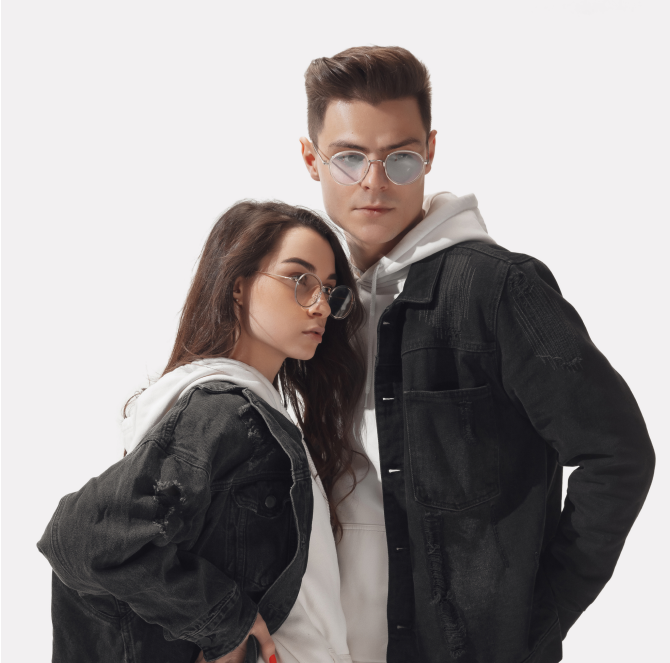
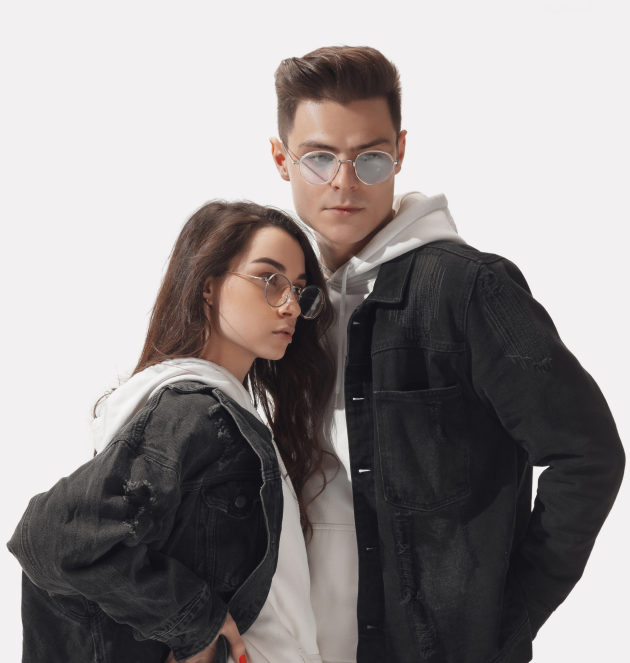
✨ feat: add hero section in home page

diff --git a/src/components/homePage/HeroSection.tsx b/src/components/homePage/HeroSection.tsx
@@ -1,8 +1,41 @@
+import bannerImg from "../../../public/img/banner/hero.png";
+// COMPONENT
+import Image from "next/image";
+import { Section, Button } from "@/components";
 
 const HeroSection = () => {
-  return (
-    <div>HeroSection</div>
-  )
-}
+   return (
+      <Section parentClass="bg-grey-50" sectionClass="flex">
+         {/* LEFT */}
+         <div className="mt-9 flex w-1/2 flex-col items-start gap-6">
+            <h2 className="font-integralCF text-7xl">FIND CLOTHES THAT MATCHES YOUR STYLE</h2>
+            <p className="w-11/12">
+               Browse through our diverse range of meticulously crafted garments, designed to bring out your individuality and cater to your sense of style.
+            </p>
+            <Button bgColor="dark">Shop New</Button>
 
-export default HeroSection
+            <div className="mt-9 flex *:flex *:flex-col *:gap-1 *:px-5">
+               <div>
+                  <span className="text-4xl font-bold">200+</span>
+                  <span>International Brands</span>
+               </div>
+               <div className="border-x">
+                  <span className="text-4xl font-bold">2,000+</span>
+                  <span>High-Quality Products</span>
+               </div>
+               <div>
+                  <span className="text-4xl font-bold">30,000+</span>
+                  <span>Happy Customers</span>
+               </div>
+            </div>
+         </div>
+
+         {/* RIGHT */}
+         <div className="flex w-1/2 justify-end">
+            <Image src={bannerImg} alt="Banner" width={700} height={600} quality={100} className="aspect-square" />
+         </div>
+      </Section>
+   );
+};
+
+export default HeroSection;

diff --git a/src/components/subComponent/Button.tsx b/src/components/subComponent/Button.tsx
@@ -1,0 +1,29 @@
+import { FC } from "react";
+
+type PropsType = {
+   children: React.ReactNode;
+   className?: string;
+   widthFull?: boolean;
+   borderColor?: string;
+   bgColor?: "dark" | "white" | "grey";
+   type?: "button" | "submit" | "reset";
+};
+
+const Button: FC<PropsType> = ({ children, type = "button", className, bgColor = "grey", widthFull, borderColor }): JSX.Element => {
+   return (
+      <button
+         type={type}
+         className={`${className} 
+            ${widthFull && "w-full"} 
+            ${bgColor === "dark" && "bg-dark text-light"} 
+            ${bgColor === "white" && "bg-light text-dark"} 
+            ${bgColor === "grey" && "bg-grey-50 text-dark"} 
+            ${borderColor && `border ${borderColor}`} 
+            rounded-full px-16 py-4 text-lg font-medium`}
+      >
+         {children}
+      </button>
+   );
+};
+
+export default Button;

diff --git a/src/components/index.ts b/src/components/index.ts
@@ -1,8 +1,11 @@
 //------------------------ MAIN
 import Section from "./subComponent/Section";
+import Button from "./subComponent/Button";
 // HEADER
 import TopNavbar from "@/components/subComponent/header/TopNavbar";
 import Navbar from "@/components/subComponent/header/Navbar";
+// HOME_PAGE
+import HeroSection from "./homePage/HeroSection";
 
 // EXPORT
-export { Section, Navbar, TopNavbar };
+export { Section, Navbar, TopNavbar, HeroSection, Button };

diff --git a/tailwind.config.ts b/tailwind.config.ts
@@ -21,6 +21,7 @@ const config: Config = {
          fontSize: {
             sm: "0.75rem" /* 12px */,
             base: "0.875rem" /* 14px */,
+            lg: "1rem" /* 16px */,
          },
          colors: {
             dark: "black",

diff --git a/src/app/page.tsx b/src/app/page.tsx
@@ -1,10 +1,11 @@
 import { FC } from "react";
 // COMPONENT
+import { HeroSection } from "@/components";
 
 const HomePage: FC = (): JSX.Element => {
    return (
       <>
-         
+         <HeroSection />
       </>
    );
 };
